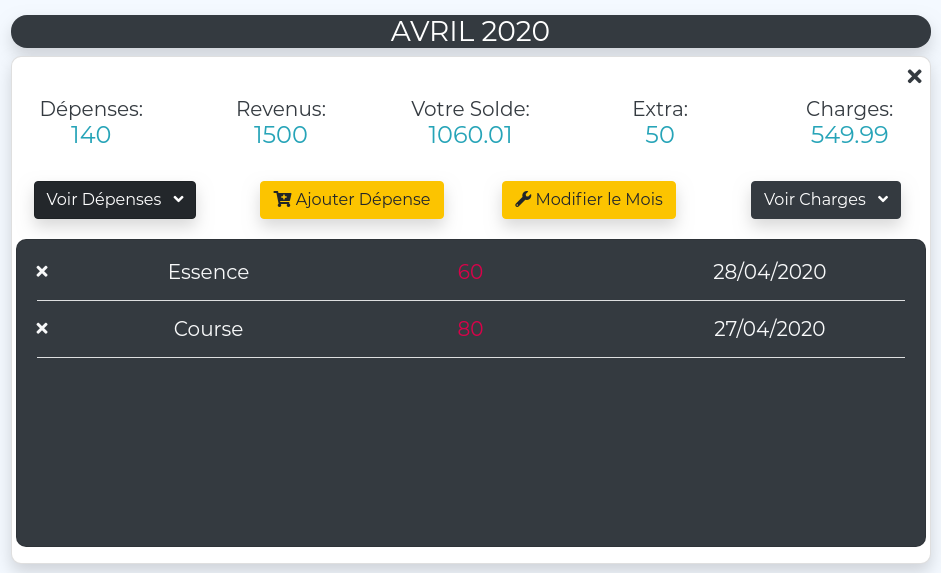
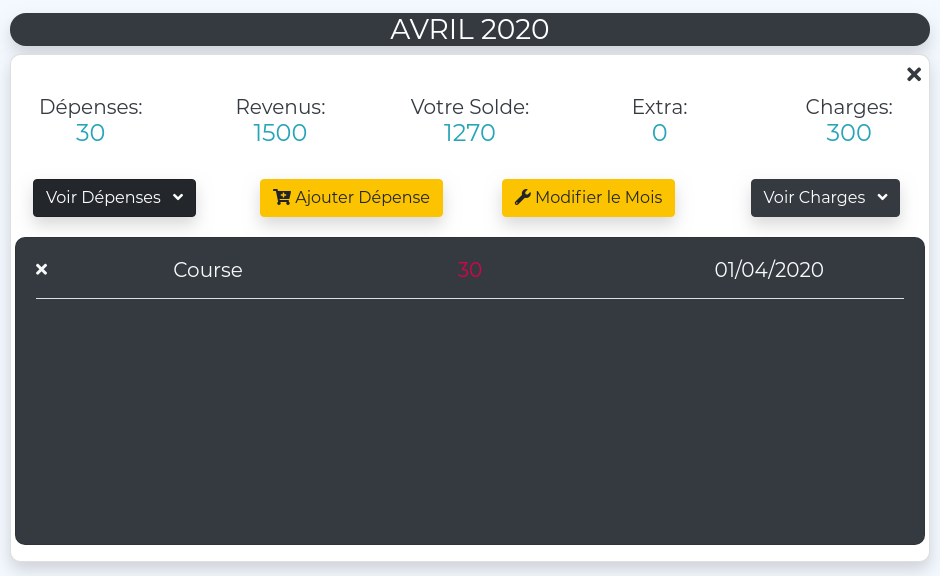
doc finis

diff --git a/client/src/components/layout/Documentation.jsx b/client/src/components/layout/Documentation.jsx
@@ -79,12 +79,12 @@ const docDashboard = () => {
           />
           <p className=' mt-3'>
             {' '}
-            A gauche vous avez un menu pour ajouter un mois, une charge ou
+            À gauche, vous avez un menu pour ajouter un mois, une charge ou
             consulter vos charges. Il vous permet aussi de supprimer
-            défintivement votre compte. <br />A droite vous une vue d'ensemble
-            de tout vos mois et vous permet de savoir où vous en êtes
-            financièrement. Direction sur la doc des mois pour en savoir plus
-            sur les données affichées.
+            définitivement votre compte.
+            <br /> À droite, vous une vue d'ensemble de tout vos mois et vous
+            permet de savoir où vous en êtes financièrement. Direction sur la
+            doc des mois pour en savoir plus sur les données affichées.
           </p>
         </div>
         <div
@@ -96,7 +96,7 @@ const docDashboard = () => {
           <h5 className='text-center'>Les Mois.</h5>
           <p className='text-center'>
             Pour commencer ajouter un mois en passant par le menu. Ce formulaire
-            ce présentera à vous.
+            se présentera à vous.
           </p>
           <img
             src={addmonth}
@@ -106,11 +106,11 @@ const docDashboard = () => {
           <p className='mt-3'>
             {' '}
             Remplissez le formulaire avec un mois (exemple: avril 2020),
-            ajoutez-y un solde sans revenus si vous commencez le mois avec 100€
-            mettez-y 100. Le revenus correspond à votre revenus que vous avez
-            gagné ce mois-ci (exemple: 1500€) et en extra ce sont vos revenus
+            ajoutez-y un solde sans revenus si vous commencez le mois avec 100 €
+            mettez-y 100. Le revenu correspond à votre revenu que vous avez
+            gagné ce mois-ci (exemple: 1500 €) et en extra, ce sont vos revenus
             exceptionnels si vous en avez (exemple: prime, vente, ...). Cliquez
-            sur ajouter et votre mois apparaît sur votre dashboard, excellent.
+            sur "ajouter" et votre mois apparaît sur votre dashboard, excellent.
           </p>
           <img
             src={month}
@@ -119,17 +119,17 @@ const docDashboard = () => {
           />
           <p className='mt-3'>
             De retour sur votre Dashboard avec un nouveau mois. Ce composant
-            vous permet d'avoir un visuel sur votre mois. D'abord on a les
+            vous permet d'avoir un visuel sur votre mois. D'abord, on a les
             dépenses, on aura ici la somme de vos dépenses pour ce mois. Votre
-            revenus qui est donc votre revenus saisis dans le formulaire ici
-            1500. Ensuite votre solde correspond à votre somme disponible
-            réellement c'est à dire qu'ici sera affiché : revenus + solde +
-            extra - dépenses - charges. Si vous avez mis 100 en solde dans le
-            formulaire et 1500 en revenus votre solde est de 1600 car il n'y pas
-            encore de dépenses ni de charges. Les extra sont donc les revenus
+            revenu qui est donc votre revenu saisis dans le formulaire ici 1500.
+            Ensuite votre solde correspond à votre somme disponible réellement
+            c'est-à-dire qu'ici sera affiché : revenus + solde + extra -
+            dépenses - charges. Si vous avez mis 100 en solde dans le formulaire
+            et 1500 en revenus votre solde est de 1600 car il n'y pas encore de
+            dépenses ni de charges. Les extras sont donc les revenus
             exceptionnels saisies dans le formulaire et les charges sont la
             sommes des charges pour ce mois et seulement ce mois. Quand vous
-            allez saisir une charge vous devrait insérer une date de début et
+            allez saisir une charge, vous devrez insérer une date de début et
             une date de fin, si le mois est dans cet intervalle la charge sera
             calculé dans ce mois.
           </p>
@@ -207,7 +207,26 @@ const docDashboard = () => {
           role='tabpanel'
           aria-labelledby='pills-exp-tab'
         >
-          exp
+          <h5 className='text-center'>Les Dépenses</h5>
+          <p className='text-center'>
+            Cliquez sur le bouton ajouter une dépense dans le mois concerné. Il
+            vous renvoi un formulaire, ajoutez un intitulé (exemple: Course), un
+            montant (exemple: 30) et une date (exemple: 01/04/2020).
+          </p>
+          <p className='text-center'>
+            {' '}
+            Une fois ajouté vous pouvez le consulter dans "Voir Dépenses".
+          </p>
+          <img
+            src={showexpenses}
+            className='card shadow w-75 mx-auto d-block mt-3'
+            alt='showexpenses'
+          />
+          <p className='text-center mt-4'>
+            Et voilà, par exemple ici il vous reste 1270 réellement pour tout ce
+            que vous voulez faire.{' '}
+            <i class='far fa-hand-peace fa-w-20 fa-2x '></i>
+          </p>
         </div>
       </div>
     </section>
